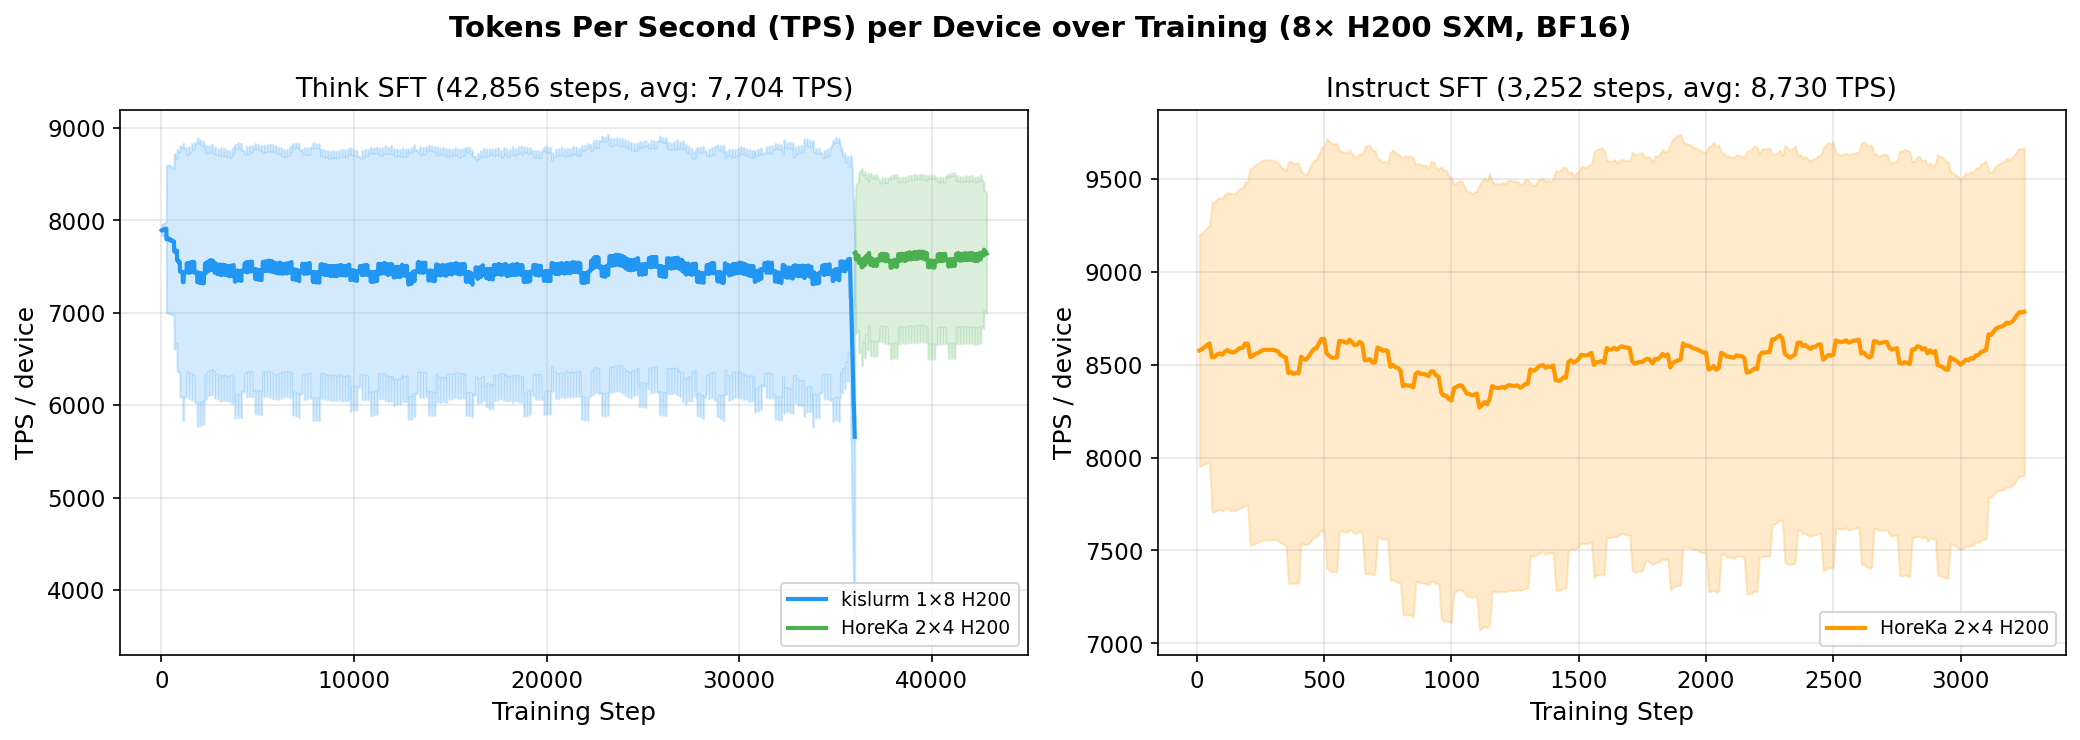
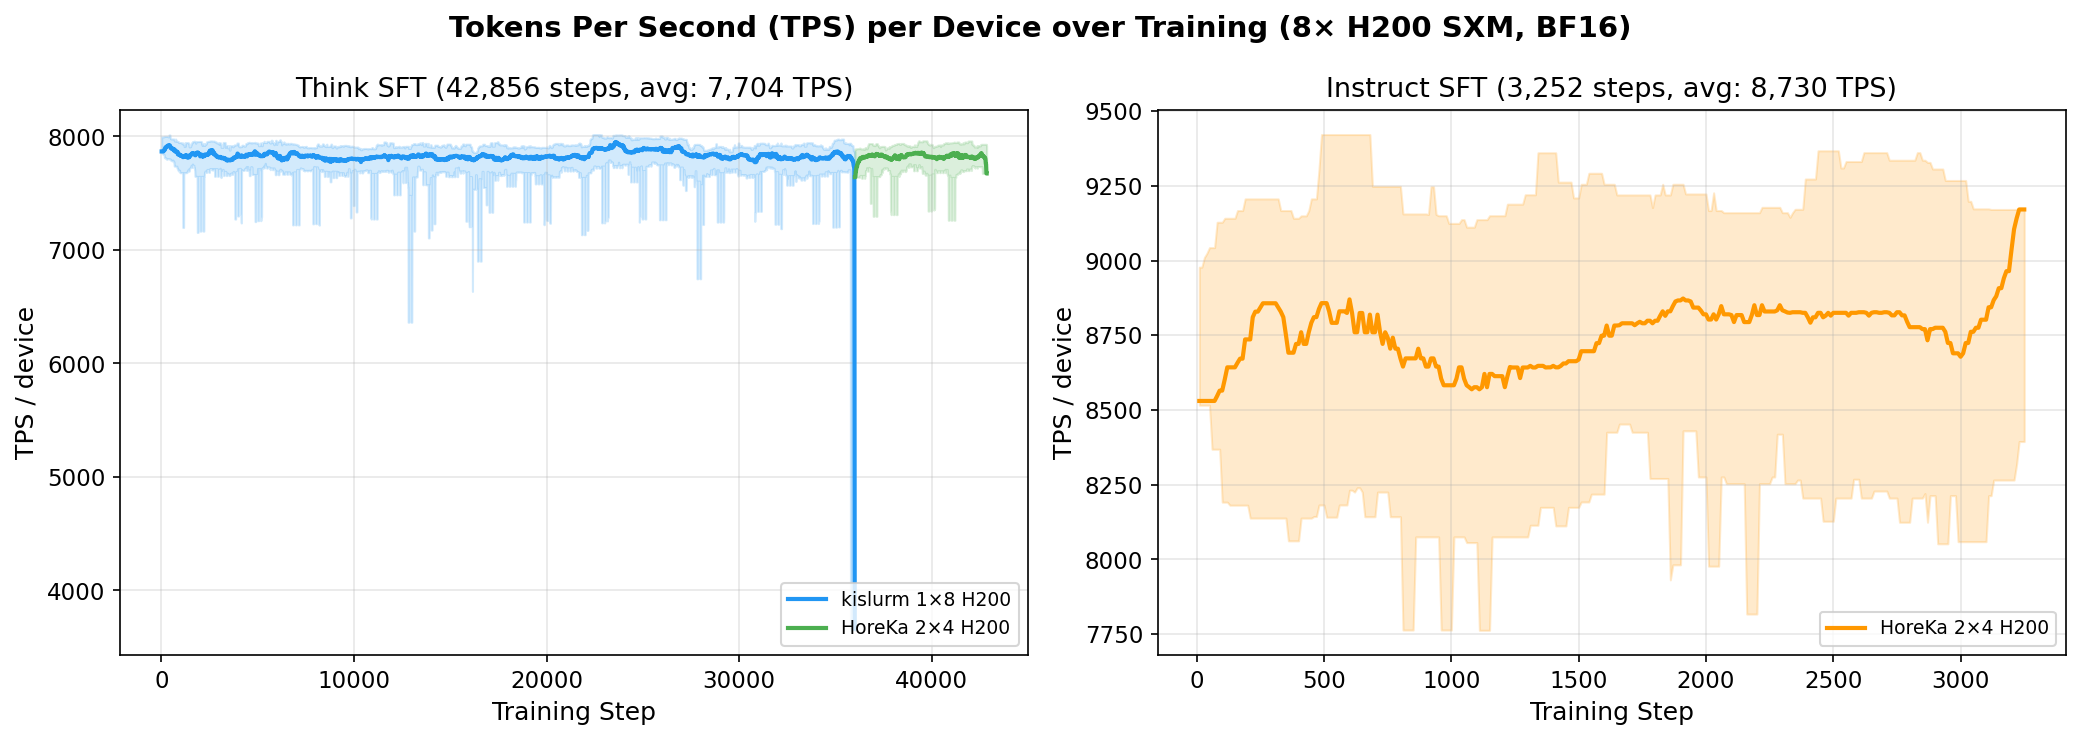
Use p10-p90 percentile bands, no kislurm/HoreKa overlap, bust cache
Percentile bands (robust to warmup outliers) replace ±1 std. Clean
kislurm→HoreKa cutoff at step 36,010 with no overlap. Cache-bust
image URLs.

diff --git a/oellm/experiments/baseline_repro/scripts/plot_throughput.py b/oellm/experiments/baseline_repro/scripts/plot_throughput.py
@@ -258,23 +258,20 @@ def main():
     })
 
     def rolling_stats(steps, values, window=50):
-        """Compute rolling mean and std for shaded confidence band."""
+        """Compute rolling median with 10th-90th percentile band (robust to outliers)."""
         from numpy.lib.stride_tricks import sliding_window_view
         if len(values) < window:
             window = max(1, len(values) // 3)
         pad = window // 2
-        # Pad edges to keep same length
         padded = np.pad(values, (pad, window - 1 - pad), mode='edge')
         windows = sliding_window_view(padded, window)
-        mean = windows.mean(axis=1)
-        std = windows.std(axis=1)
-        return mean, std
+        median = np.median(windows, axis=1)
+        p10 = np.percentile(windows, 10, axis=1)
+        p90 = np.percentile(windows, 90, axis=1)
+        return median, p10, p90
 
     # Split Think v2 into kislurm and HoreKa segments for color-coding.
-    # kislurm wandb ends at step 35,273; HoreKa wandb starts at step 36,010.
-    # Steps 35,274–36,009 (~736 steps, 1.7%) were trained on kislurm but
-    # wandb wasn't logging — no per-step data exists for this window.
-    # We connect the segments with a dashed line to indicate the gap.
+    # Use HoreKa's first step as the clean cutoff — no overlap.
     horeka_start = v2_think_horeka['steps'][0] if len(v2_think_horeka['steps']) > 0 else 36010
     ki_mask = v2_think['steps'] < horeka_start
     hk_mask = v2_think['steps'] >= horeka_start
@@ -294,9 +291,9 @@ def main():
         ]:
             if len(seg['steps']) == 0:
                 continue
-            mean, std = rolling_stats(seg['steps'], seg[metric_key])
-            ax.plot(seg['steps'], mean, color=color, linewidth=2, label=label)
-            ax.fill_between(seg['steps'], mean - std, mean + std, color=color, alpha=0.2)
+            median, p10, p90 = rolling_stats(seg['steps'], seg[metric_key])
+            ax.plot(seg['steps'], median, color=color, linewidth=2, label=label)
+            ax.fill_between(seg['steps'], p10, p90, color=color, alpha=0.2)
 
     # ====== Figure 1: TPS/device over steps ======
     fig, axes = plt.subplots(1, 2, figsize=(14, 5))
@@ -312,10 +309,10 @@ def main():
     axes[0].grid(True, alpha=0.3)
 
     # Instruct (right) — all HoreKa
-    mean, std = rolling_stats(v2_instruct['steps'], v2_instruct['tps'])
-    axes[1].plot(v2_instruct['steps'], mean, color=COLOR_INST, linewidth=2,
+    median, p10, p90 = rolling_stats(v2_instruct['steps'], v2_instruct['tps'])
+    axes[1].plot(v2_instruct['steps'], median, color=COLOR_INST, linewidth=2,
                  label=f"HoreKa 2×4 H200")
-    axes[1].fill_between(v2_instruct['steps'], mean - std, mean + std,
+    axes[1].fill_between(v2_instruct['steps'], p10, p90,
                          color=COLOR_INST, alpha=0.2)
     axes[1].set_title(f'Instruct SFT (3,252 steps, avg: {v2_instruct["tps_avg"][-1]:,.0f} TPS)')
     axes[1].set_xlabel('Training Step')
@@ -344,10 +341,10 @@ def main():
     axes[0].set_ylim(50, 100)
 
     # Instruct (right) — all HoreKa
-    mean, std = rolling_stats(v2_instruct['steps'], v2_instruct['mfu'])
-    axes[1].plot(v2_instruct['steps'], mean, color=COLOR_INST, linewidth=2,
+    median, p10, p90 = rolling_stats(v2_instruct['steps'], v2_instruct['mfu'])
+    axes[1].plot(v2_instruct['steps'], median, color=COLOR_INST, linewidth=2,
                  label=f"HoreKa 2×4 H200")
-    axes[1].fill_between(v2_instruct['steps'], mean - std, mean + std,
+    axes[1].fill_between(v2_instruct['steps'], p10, p90,
                          color=COLOR_INST, alpha=0.2)
     axes[1].set_title(f'Instruct SFT (3,252 steps, avg: {v2_instruct["mfu_avg"][-1]:.1f}%)')
     axes[1].set_xlabel('Training Step')

diff --git a/oellm/experiments/baseline_repro/eval_results.md b/oellm/experiments/baseline_repro/eval_results.md
@@ -490,7 +490,7 @@ Throughput metrics for the v2 production runs (used for all evaluations above). 
 
 ### Throughput Plots
 
-![TPS over training steps](https://raw.githubusercontent.com/ferreirafabio/open-instruct/main/oellm/experiments/baseline_repro/figures/throughput_tps.png)
+![TPS over training steps](https://raw.githubusercontent.com/ferreirafabio/open-instruct/main/oellm/experiments/baseline_repro/figures/throughput_tps.png?v=2)
 
-![MFU over training steps](https://raw.githubusercontent.com/ferreirafabio/open-instruct/main/oellm/experiments/baseline_repro/figures/throughput_mfu.png)
+![MFU over training steps](https://raw.githubusercontent.com/ferreirafabio/open-instruct/main/oellm/experiments/baseline_repro/figures/throughput_mfu.png?v=2)
 

diff --git a/oellm/evaluations/eval_results.md b/oellm/evaluations/eval_results.md
@@ -531,7 +531,7 @@ Throughput metrics for the v2 production runs (used for all evaluations above). 
 
 ### Throughput Plots
 
-![TPS over training steps](https://raw.githubusercontent.com/ferreirafabio/open-instruct/main/oellm/evaluations/figures/throughput_tps.png)
+![TPS over training steps](https://raw.githubusercontent.com/ferreirafabio/open-instruct/main/oellm/evaluations/figures/throughput_tps.png?v=2)
 
-![MFU over training steps](https://raw.githubusercontent.com/ferreirafabio/open-instruct/main/oellm/evaluations/figures/throughput_mfu.png)
+![MFU over training steps](https://raw.githubusercontent.com/ferreirafabio/open-instruct/main/oellm/evaluations/figures/throughput_mfu.png?v=2)
 
